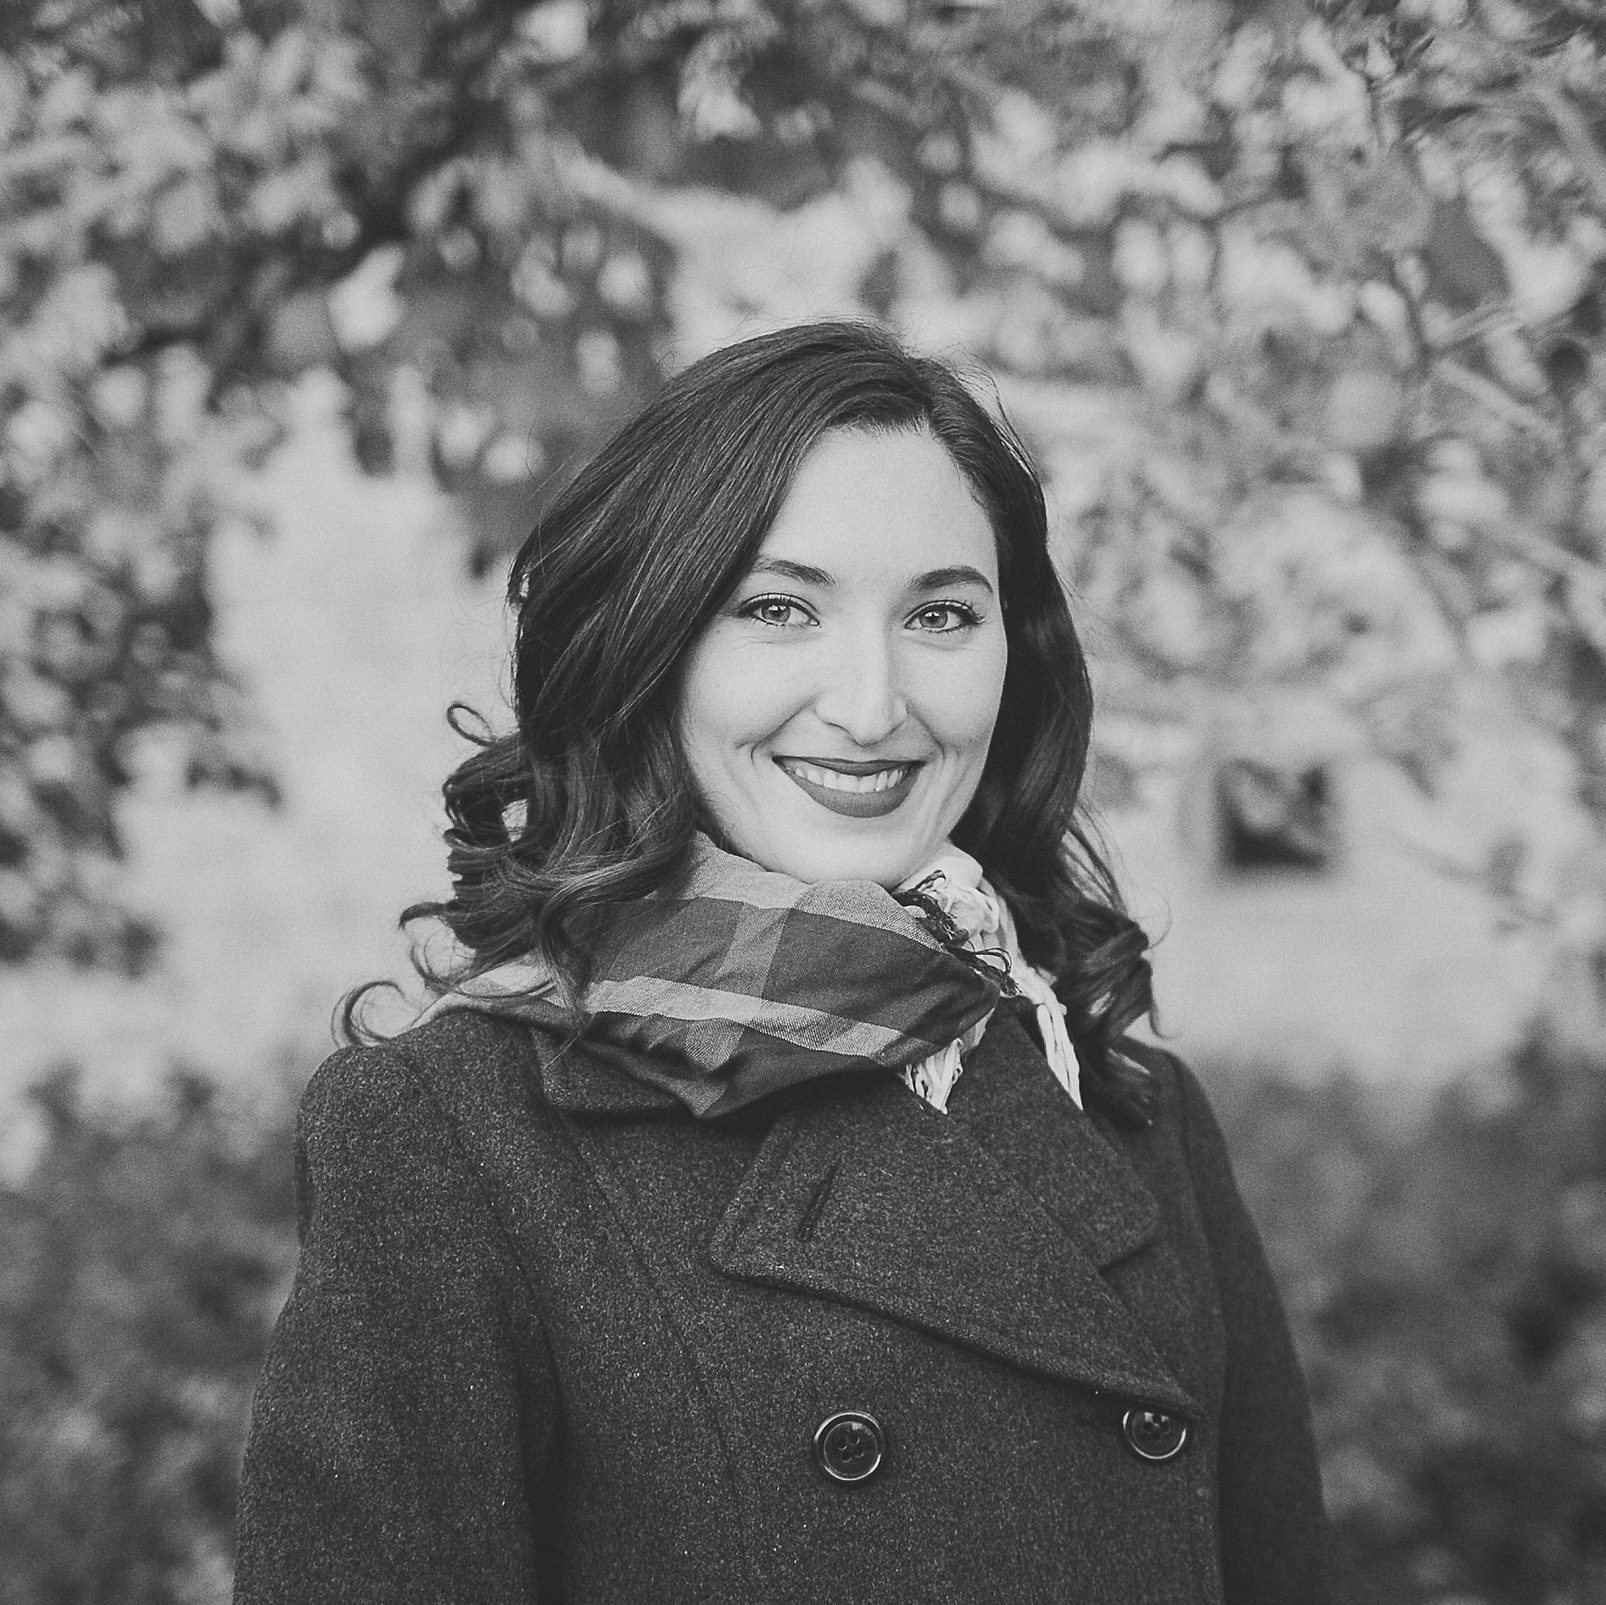
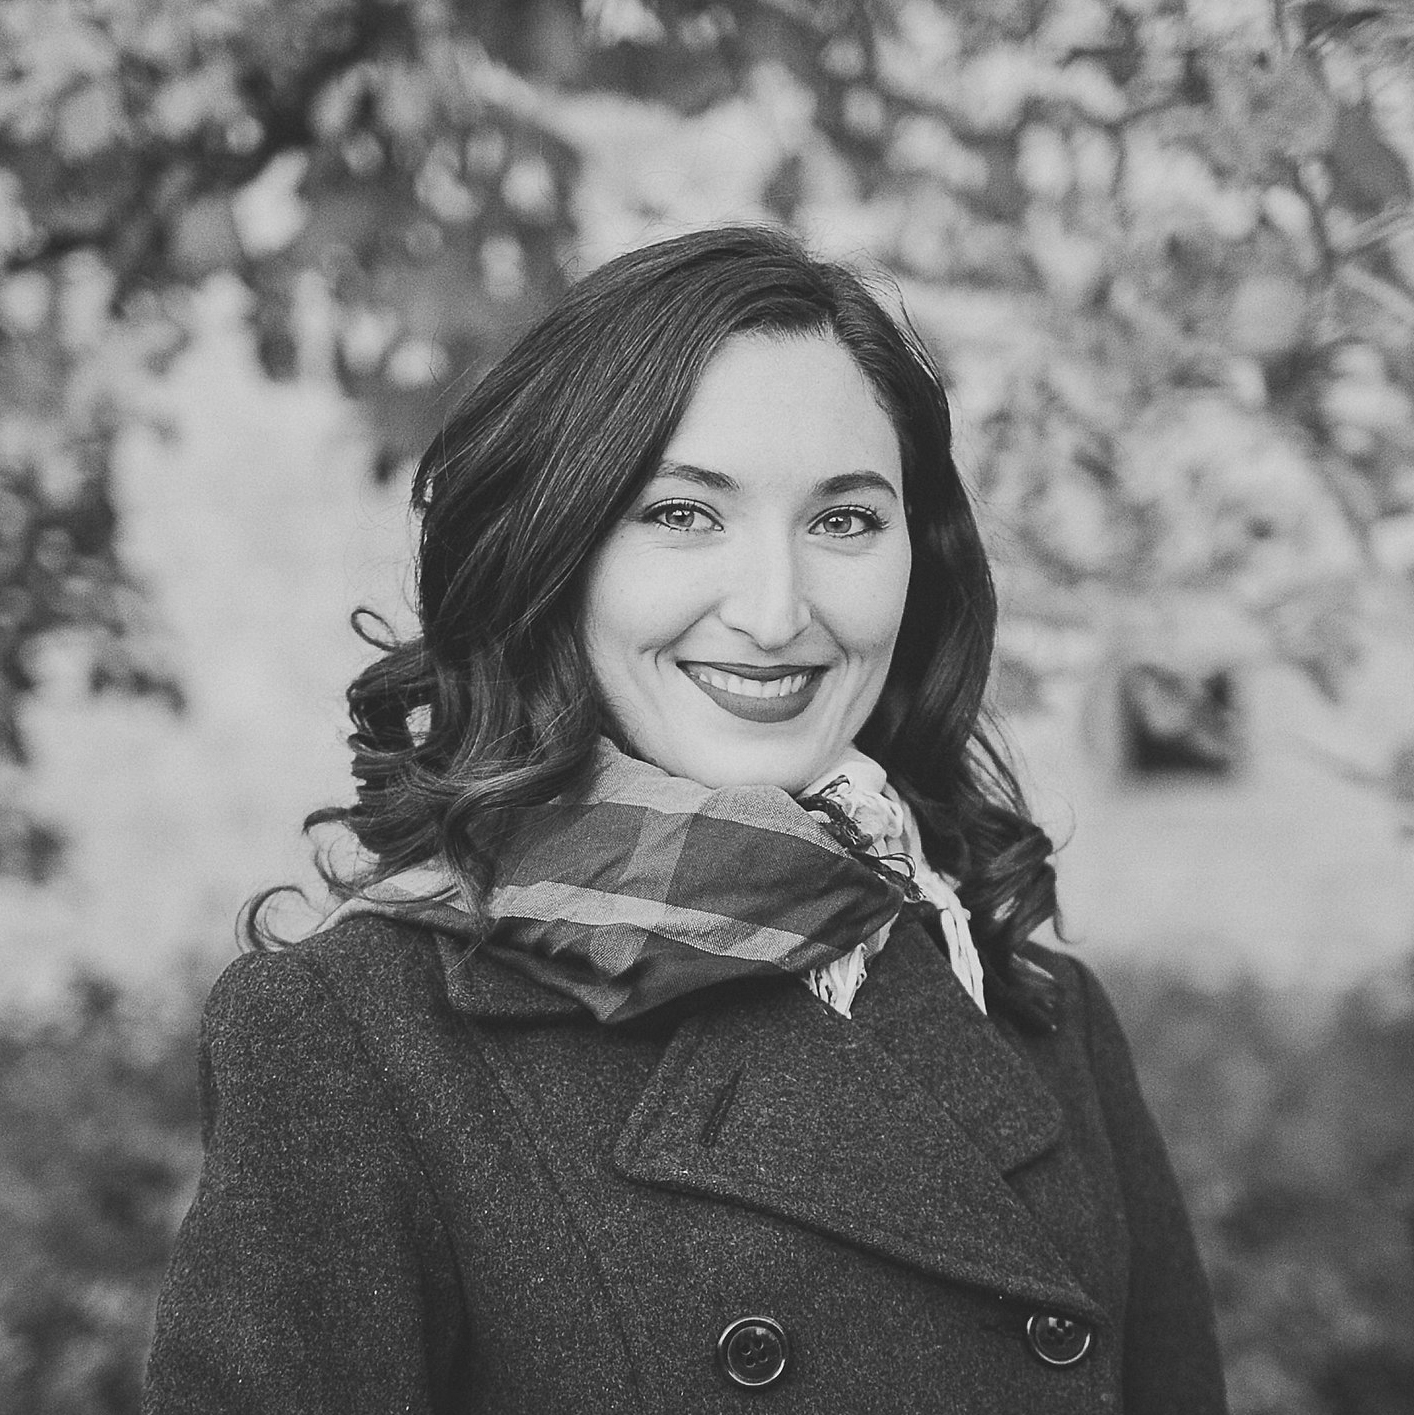
About section finished and responsive

diff --git a/style.css b/style.css
@@ -35,7 +35,7 @@
   --bodyfont: 'Kefa-Regular';
   --green: #192811;
   --blue: #a8c5d8;
-  --grey: #86888b;
+  --grey: #ebeef4;
 }
 /* header styling is here*/
 header {
@@ -169,7 +169,7 @@ grid-area: title;
   height: 300px;
   }
   .title-image h1 {
-  font-size:3em;
+  font-size:4em;
   border:5px solid var(--green);
 }
   .title-image span {
@@ -178,3 +178,88 @@ grid-area: title;
 }
 
 /* Styling for the about section begins here */
+ .about {
+ display: grid;
+grid-template-columns: 200px auto auto 200px;
+grid-template-rows: auto auto;
+grid-template-areas:
+". title title ."
+". img1 about .";
+align-items: center;
+ }
+.about h2 {
+  font-size: 4em;
+  font-family: var(--headerfont);
+  color: var(--green);
+margin: 50px 0px 0px 0px;
+  text-align: center;
+ grid-area: title;
+}
+
+.about img {
+height: 300px;
+width: auto;
+border-radius: 300px;
+border: 10px solid var(--green);
+margin-right: 40px;
+grid-area: img1;
+}
+.about p {
+font-family: var(--bodyfont);
+  font-size: 1.3em;
+grid-area: about;
+ }
+@media only screen and (max-width: 1250px){
+  .about {
+  grid-template-columns: 80px auto auto 80px;
+}
+}
+@media only screen and (max-width: 992px){
+  .about {
+ grid-template-columns: 100px auto auto 100px;
+  }
+ .about h2 {
+   font-size: 2.5em;
+ }
+ .about img {
+ height: 250px;
+ border: 8px solid var(--green);
+ }
+ .about p {
+   font-size: 1em;
+  }
+}
+@media only screen and (max-width: 800px){
+  .about {
+  display: grid;
+ grid-template-columns: 20px auto 20px;
+ grid-template-rows: auto auto auto;
+ grid-template-areas:
+ ". title ."
+ ". img1 ."
+ ". about .";
+ align-items: center;
+  }
+ .about h2 {
+   font-size: 3em;
+   font-family: var(--headerfont);
+   color: var(--green);
+ margin: 50px 0px 20px 0px;
+   text-align: center;
+  grid-area: title;
+ }
+
+ .about img {
+ height: 200px;
+ width: auto;
+ border-radius: 300px;
+ border: 10px solid var(--green);
+ margin: auto;
+ grid-area: img1;
+ }
+ .about p {
+ font-family: var(--bodyfont);
+   font-size: 1em;
+ grid-area: about;
+  }
+}

diff --git a/index.html b/index.html
@@ -1,7 +1,7 @@
 <!DOCTYPE html>
 <html lang="en">
 <head>
-  <title>DevTips Starter Kit</title>
+  <title>Bethany Hull</title>
   <meta charset="utf-8">
   <meta name="viewport" content="width=device-width, initial-scale=1">
   <link rel="stylesheet" href="style.css" />
@@ -25,6 +25,10 @@
       <h2>About</h2>
       <img src="img/Bethany.jpg" alt="a headshot of Bethany">
       <p>Lorem ipsum dolor sit amet, consectetur adipiscing elit. Proin sagittis nibh vitae turpis venenatis accumsan. Vestibulum eu tortor tortor. Curabitur eget placerat arcu. Praesent risus augue, efficitur eu est ac, venenatis vehicula lectus. Sed molestie tortor vitae eros sodales luctus. In ullamcorper mollis lacus sed scelerisque. Maecenas imperdiet congue ligula, eget ultrices nibh pellentesque eu. Quisque in mauris vel felis pharetra eleifend. Suspendisse fermentum magna et ornare gravida. Etiam semper viverra tempus. Donec feugiat a ex id lacinia.</p>
+    </div>
+    <div class="skills">
+      
+
     </div>
   </main>
 </body>
